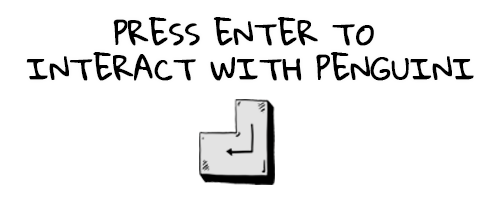
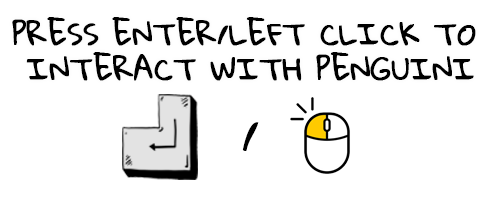
adding elyvorg healthbar, refactoring progress bar. and small changes

diff --git a/game/interface/UI.js b/game/interface/UI.js
@@ -5,6 +5,8 @@ export class UI {
         this.game = game;
         this.fontSize = 30;
         this.fontFamily = 'Love Ya Like A Sister';
+        this.barWidth = 500;
+
         this.livesImage = document.getElementById('firedogHead');
         this.fireballUI = document.getElementById('fireballUI');
         this.fireballUIWhiteBorder = document.getElementById('fireballUIWhiteBorder');
@@ -19,11 +21,11 @@ export class UI {
         this.slashWarningUI = document.getElementById('slashWarningUI');
         this.electricUI = document.getElementById('electricUI');
         this.electricWarningUI = document.getElementById('electricWarningUI');
-        this.width = this.game.width;
-        this.height = this.game.height;
+
         this.secondsLeft = 60000;
         this.secondsLeftActivated = false;
     }
+
     draw(context) {
         context.save();
         context.shadowOffsetX = 2;
@@ -35,8 +37,9 @@ export class UI {
         context.fillStyle = this.game.fontColor;
         //coins score
         context.fillText('Coins: ' + this.game.coins, 20, 50);
-        //progress bar
-        this.progressBar(context);
+        //bars
+        this.distanceBar(context);
+        this.elyvorgHealthBar(context);
         //time
         this.timer(context);
         //energy
@@ -50,70 +53,98 @@ export class UI {
         this.firedogAbilityUI(context)
         this.elyvorgAbilityUI(context);
     }
-    progressBar(context) {
+
+    progressBar(context, percentage, filledWidth, barOrFilledWidth, colour) {
+        this.percentage = percentage;
+        const barHeight = 10;
+        const barX = (this.game.width / 2) - (this.barWidth / 2);
+        const barY = 10;
+
+        context.save();
+        context.font = '18px ' + this.fontFamily;
+        context.fillStyle = this.game.fontColor;
+        context.textAlign = 'left';
+        context.fillText(Math.floor(percentage) + '%', barX + this.barWidth + 5, barY + barHeight);
+
+        context.shadowColor = 'rgba(0, 0, 0, 0)';
+        context.shadowOffsetX = 0;
+        context.shadowOffsetY = 0;
+        context.shadowBlur = 0;
+
+        context.fillStyle = 'rgba(255, 255, 255, 0.25)';
+        context.beginPath();
+        context.moveTo(barX + 5, barY);
+        context.lineTo(barX + this.barWidth - 5, barY);
+        context.arcTo(barX + this.barWidth, barY, barX + this.barWidth, barY + 5, 5);
+        context.lineTo(barX + this.barWidth, barY + barHeight - 5);
+        context.arcTo(barX + this.barWidth, barY + barHeight, barX + this.barWidth - 5, barY + barHeight, 5);
+        context.lineTo(barX + 5, barY + barHeight);
+        context.arcTo(barX, barY + barHeight, barX, barY + barHeight - 5, 5);
+        context.lineTo(barX, barY + 5);
+        context.arcTo(barX, barY, barX + 5, barY, 5);
+        context.closePath();
+        context.fill();
+
+        this.filledWidth = filledWidth;
+
+        context.beginPath();
+        context.moveTo(barX + 5, barY);
+        context.lineTo(barX + barOrFilledWidth - 5, barY);
+        context.arcTo(barX + barOrFilledWidth, barY, barX + barOrFilledWidth, barY + 5, 5);
+        context.lineTo(barX + barOrFilledWidth, barY + barHeight - 5);
+        context.arcTo(barX + barOrFilledWidth, barY + barHeight, barX + barOrFilledWidth - 5, barY + barHeight, 5);
+        context.lineTo(barX + 5, barY + barHeight);
+        context.arcTo(barX, barY + barHeight, barX, barY + barHeight - 5, 5);
+        context.lineTo(barX, barY + 5);
+        context.arcTo(barX, barY, barX + 5, barY, 5);
+        context.closePath();
+        context.clip();
+
+        context.fillStyle = colour;
+        context.beginPath();
+        context.moveTo(barX + 10, barY);
+        context.lineTo(barX + this.filledWidth - 5, barY);
+        context.arcTo(barX + this.filledWidth, barY, barX + this.filledWidth, barY + 5, 5);
+        context.lineTo(barX + this.filledWidth, barY + barHeight - 5);
+        context.arcTo(barX + this.filledWidth, barY + barHeight, barX + this.filledWidth - 5, barY + barHeight, 5);
+        context.lineTo(barX + 5, barY + barHeight);
+        context.arcTo(barX, barY + barHeight, barX, barY + barHeight - 5, 5);
+        context.lineTo(barX, barY + 5);
+        context.arcTo(barX, barY, barX + 10, barY, 5);
+        context.closePath();
+        context.fill();
+        context.restore();
+    }
+
+    distanceBar(context) {
         if (!this.game.mapSelected[6]) {
-            const percentage = Math.min((this.game.background.totalDistanceTraveled / this.game.maxDistance) * 100, 100);
-            const barWidth = 500;
-            const barHeight = 10;
-            const barX = (this.game.width / 2) - (barWidth / 2);
-            const barY = 10;
-
-            context.save();
-            context.font = '18px ' + this.fontFamily;
-            context.fillStyle = this.game.fontColor;
-            context.textAlign = 'left';
-            context.fillText(Math.floor(percentage) + '%', barX + barWidth + 5, barY + barHeight);
-
-            context.shadowColor = 'rgba(0, 0, 0, 0)';
-            context.shadowOffsetX = 0;
-            context.shadowOffsetY = 0;
-            context.shadowBlur = 0;
-
-            context.fillStyle = 'rgba(255, 255, 255, 0.25)';
-            context.beginPath();
-            context.moveTo(barX + 5, barY);
-            context.lineTo(barX + barWidth - 5, barY);
-            context.arcTo(barX + barWidth, barY, barX + barWidth, barY + 5, 5);
-            context.lineTo(barX + barWidth, barY + barHeight - 5);
-            context.arcTo(barX + barWidth, barY + barHeight, barX + barWidth - 5, barY + barHeight, 5);
-            context.lineTo(barX + 5, barY + barHeight);
-            context.arcTo(barX, barY + barHeight, barX, barY + barHeight - 5, 5);
-            context.lineTo(barX, barY + 5);
-            context.arcTo(barX, barY, barX + 5, barY, 5);
-            context.closePath();
-            context.fill();
-
-            const filledWidth = (this.game.background.totalDistanceTraveled / this.game.maxDistance) * barWidth;
-
-            context.beginPath();
-            context.moveTo(barX + 5, barY);
-            context.lineTo(barX + barWidth - 5, barY);
-            context.arcTo(barX + barWidth, barY, barX + barWidth, barY + 5, 5);
-            context.lineTo(barX + barWidth, barY + barHeight - 5);
-            context.arcTo(barX + barWidth, barY + barHeight, barX + barWidth - 5, barY + barHeight, 5);
-            context.lineTo(barX + 5, barY + barHeight);
-            context.arcTo(barX, barY + barHeight, barX, barY + barHeight - 5, 5);
-            context.lineTo(barX, barY + 5);
-            context.arcTo(barX, barY, barX + 5, barY, 5);
-            context.closePath();
-            context.clip();
-
-            context.fillStyle = '#2ecc71';
-            context.beginPath();
-            context.moveTo(barX + 10, barY);
-            context.lineTo(barX + filledWidth - 5, barY);
-            context.arcTo(barX + filledWidth, barY, barX + filledWidth, barY + 5, 5);
-            context.lineTo(barX + filledWidth, barY + barHeight - 5);
-            context.arcTo(barX + filledWidth, barY + barHeight, barX + filledWidth - 5, barY + barHeight, 5);
-            context.lineTo(barX + 5, barY + barHeight);
-            context.arcTo(barX, barY + barHeight, barX, barY + barHeight - 5, 5);
-            context.lineTo(barX, barY + 5);
-            context.arcTo(barX, barY, barX + 10, barY, 5);
-            context.closePath();
-            context.fill();
-            context.restore();
+            this.progressBar(
+                context,
+                Math.min((this.game.background.totalDistanceTraveled / this.game.maxDistance) * 100, 100),
+                (this.game.background.totalDistanceTraveled / this.game.maxDistance) * this.barWidth,
+                this.barWidth,
+                '#2ecc71',
+            );
         }
     }
+
+    elyvorgHealthBar(context) {
+        if (this.game.elyvorgInFight) {
+            const enemy = this.game.enemies.find(e => e instanceof Elyvorg);
+            if (!enemy) return;
+
+            let elyvorgLives = enemy.lives - enemy.livesDefeatedAt;
+
+            this.progressBar(
+                context,
+                enemy.lives > 0 ? Math.max((elyvorgLives / enemy.maxLives) * 100, 1) : 0,
+                elyvorgLives > 0 ? Math.max((elyvorgLives / enemy.maxLives) * this.barWidth, 0.01 * this.barWidth) : 0,
+                elyvorgLives > 0 ? Math.max((elyvorgLives / enemy.maxLives) * this.barWidth, 0.01 * this.barWidth) : 0,
+                'red',
+            );
+        }
+    }
+
     energy(context) {
         let textColor = 'black';
         let shadowColor = 'white';
@@ -140,20 +171,21 @@ export class UI {
 
         let offsetX = 0;
         let offsetY = 0;
-        
+
         if (!this.game.menu.pause.isPaused) {
             offsetX = shakeAmount * shakeDirectionX * Math.sin(Date.now() * shakeFrequency);
             offsetY = shakeAmount * shakeDirectionY * Math.cos(Date.now() * shakeFrequency);
         }
-        
+
         context.font = this.fontSize * 1.2 + 'px ' + this.fontFamily;
         context.fillStyle = textColor;
         context.shadowColor = shadowColor;
-        
+
         context.fillText('Energy: ' + this.game.player.energy.toFixed(1), 20 + offsetX, 130 + offsetY);
-        
+
         context.restore();
     }
+
     timer(context) {
         context.font = this.fontSize * 1 + 'px ' + this.fontFamily;
         let formattedTime;
@@ -213,34 +245,34 @@ export class UI {
 
         if (this.game.player.isBluePotionActive) {
             context.save();
-        
+
             const shakeAmount = 3;
             const shakeFrequency = 0.1;
-            
+
             let offsetX = 0;
             let offsetY = 0;
-        
+
             if (!this.game.menu.pause.isPaused) {
                 const shakeDirectionX = Math.random() > 0.5 ? 1 : -1;
                 const shakeDirectionY = Math.random() > 0.5 ? 1 : -1;
                 offsetX = shakeAmount * shakeDirectionX * Math.sin(Date.now() * shakeFrequency);
                 offsetY = shakeAmount * shakeDirectionY * Math.cos(Date.now() * shakeFrequency);
             }
-        
+
             const blueFireTime = (this.game.player.blueFireTimer / 1000).toFixed(1);
-        
+
             context.fillStyle = 'blue';
             context.shadowColor = 'white';
             context.textAlign = 'center';
-        
+
             context.font = this.fontSize * 2 + 'px ' + this.fontFamily;
             context.fillText(blueFireTime, this.game.width / 2 + offsetX, 90 + offsetY);
-        
+
             const textMetrics = context.measureText(blueFireTime);
             const blueFireTimeWidth = textMetrics.width;
             context.font = this.fontSize * 1.2 + 'px ' + this.fontFamily;
             context.fillText(' s', this.game.width / 2 + offsetX + blueFireTimeWidth / 2 + 5, 90 + offsetY);
-        
+
             context.restore();
         }
     }

diff --git a/game/entities/enemies/elyvorg.js b/game/entities/enemies/elyvorg.js
@@ -429,7 +429,9 @@ export class Elyvorg extends GroundEnemyBoss {
         this.originalY = this.y;
         this.fps = 30;
         this.frameInterval = 1000 / this.fps;
+        this.livesDefeatedAt = 5;
         this.lives = 150;
+        this.maxLives = this.lives - this.livesDefeatedAt;
         this.stateRandomiserTimer = 5000;
         this.stateRandomiserCooldown = 5000;
         // run
@@ -1020,7 +1022,7 @@ export class Elyvorg extends GroundEnemyBoss {
         }
     }
     checkIfDefeated() {
-        if (this.lives <= 5) {
+        if (this.lives <= this.livesDefeatedAt) {
             this.game.elyvorgInFight = false;
             this.lives = 110;
             this.cutsceneBackgroundChange(200, 600, 300);

diff --git a/game/entities/player.js b/game/entities/player.js
@@ -569,7 +569,7 @@ export class Player {
         if (input.includes('d') && this.currentState !== this.states[6]) {
             this.speed = this.maxSpeed;
         } else if (input.includes('a') && this.currentState !== this.states[6]) {
-            if (this.game.isElyvorgFullyVisible) {
+            if (this.game.isElyvorgFullyVisible || this.game.cabin.isFullyVisible) {
                 this.speed = -this.maxSpeed;
             } else if (this.currentState === this.states[4]) {
                 this.speed = -this.maxSpeed * 1.7;

diff --git a/game/menu/forestMap.js b/game/menu/forestMap.js
@@ -303,7 +303,7 @@ export class ForestMapMenu extends BaseMenu {
             context.fillStyle = 'black';
             context.font = '50px Love Ya Like A Sister';
             context.fillText(`Map ${selectedMapNumber} - ${selectedMapName}`, 50, this.game.height - 30);
-            
+
             context.fillText("Tab for Enemy Lore", 50, this.game.height - 90);
             context.restore();
         }

diff --git a/game/entities/penguini.js b/game/entities/penguini.js
@@ -52,7 +52,7 @@ export class Penguini {
         if (this.game.mapSelected[6]) {
             yPosition = this.y - 235;
         } else {
-            yPosition = this.y - 140;
+            yPosition = this.y - 170;
         }
         if (this.showEnterToTalkToPenguini && this.game.talkToPenguinOneTimeOnly) {
             context.drawImage(this.showPressEnterImage, this.x - 320, yPosition);
